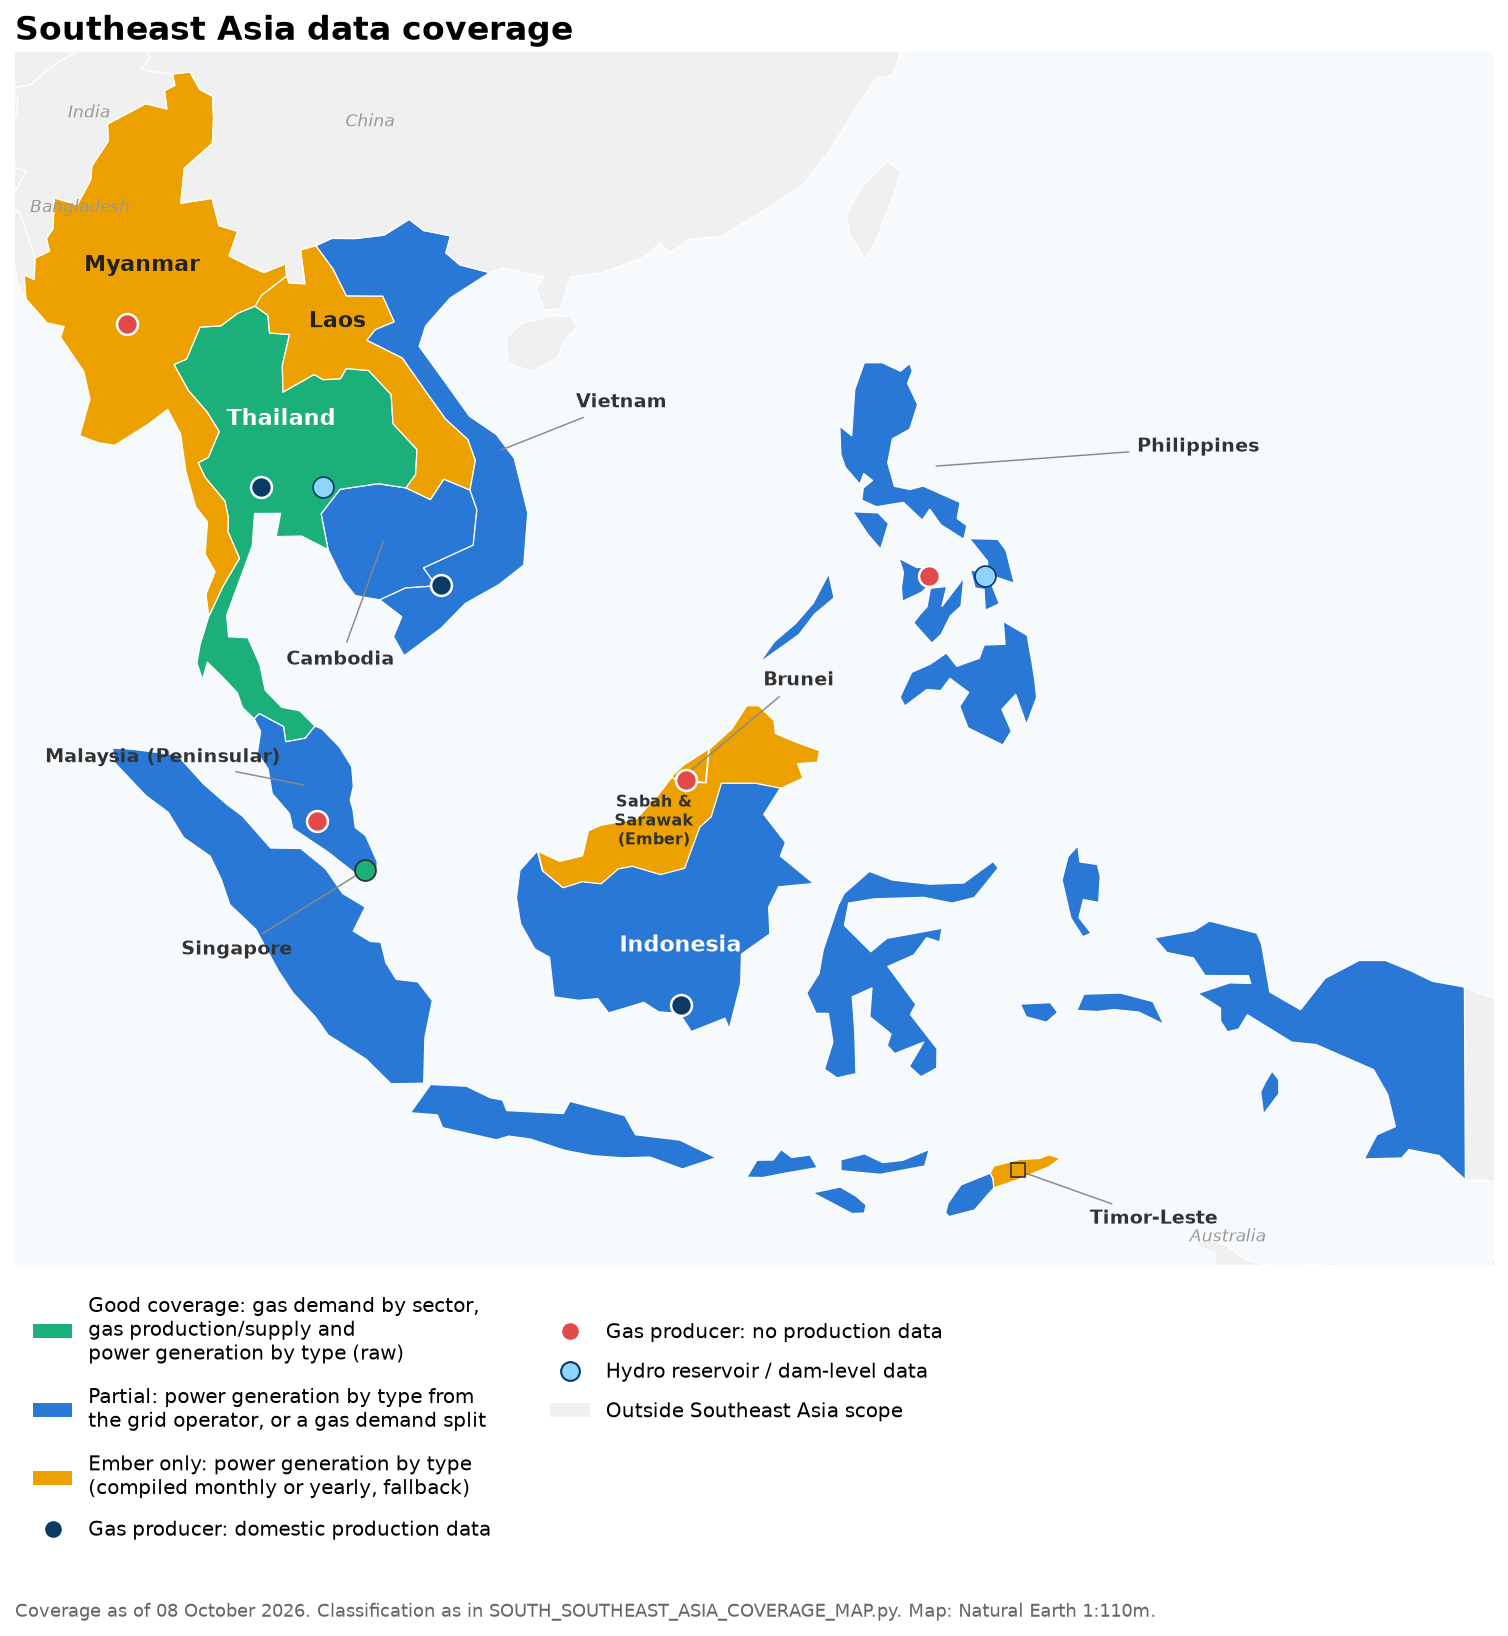
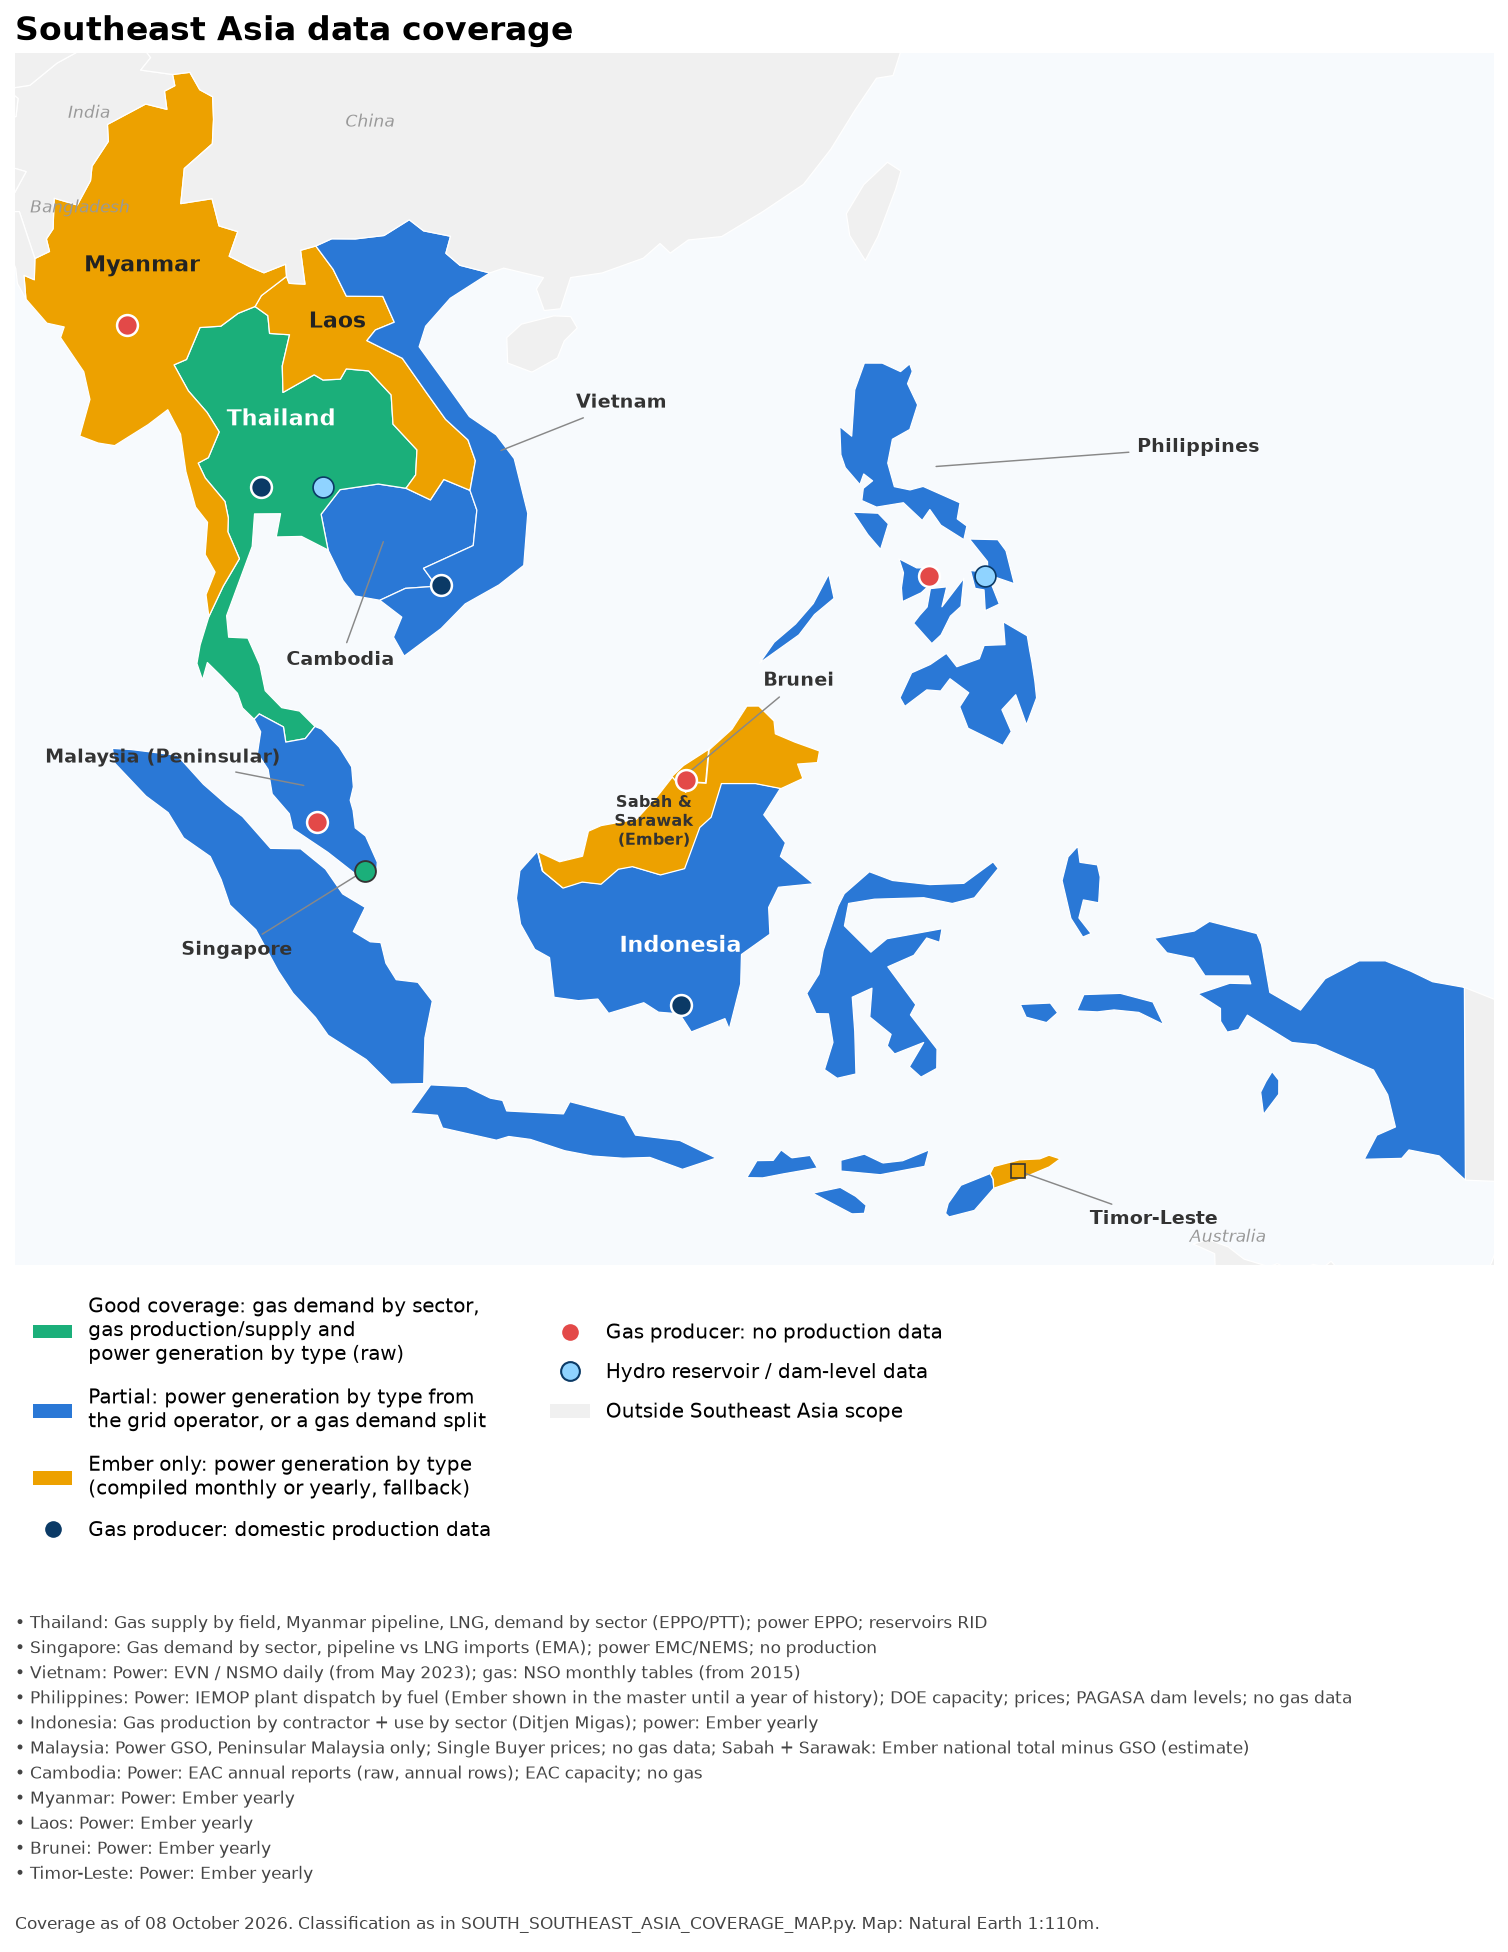
Southeast Asia coverage map: notes bullets per country under the map
Claude-Session: https://claude.ai/code/session_017JZ6NtiEGTPcCx8fG8R1Sb

diff --git a/asia/SOUTHEAST_ASIA_COVERAGE_MAP.py b/asia/SOUTHEAST_ASIA_COVERAGE_MAP.py
@@ -122,8 +122,20 @@ def main():
     ax.legend(handles=handles, loc="upper left", frameon=False, fontsize=9.5, bbox_to_anchor=(0.0, -0.01), ncol=2,
               labelspacing=1.0, columnspacing=3.0)
     ax.set_title("Southeast Asia data coverage", fontsize=16, fontweight="bold", loc="left")
-    ax.text(0.0, -0.29, f"Coverage as of {datetime.date.today():%d %B %Y}. Classification as in "
-             "SOUTH_SOUTHEAST_ASIA_COVERAGE_MAP.py. Map: Natural Earth 1:110m.", fontsize=8.5, color="#666666", transform=ax.transAxes)
+    import textwrap
+    order = {"green": 0, "blue": 1, "amber": 2}
+    lines = []
+    for name in sorted((n for n in SE_ASIA if n in cov), key=lambda n: (order[cov[n][0]], SE_ASIA.index(n))):
+        what = cov[name][1]
+        if name == "Malaysia":
+            what += "; Sabah + Sarawak: Ember national total minus GSO (estimate)"
+        wrapped = textwrap.wrap(f"{name}: {what}", 165, subsequent_indent="    ")
+        lines.append("\u2022 " + wrapped[0])
+        lines += ["   " + w for w in wrapped[1:]]
+    lines += ["", f"Coverage as of {datetime.date.today():%d %B %Y}. Classification as in SOUTH_SOUTHEAST_ASIA_COVERAGE_MAP.py. "
+                  "Map: Natural Earth 1:110m."]
+    ax.text(0.0, -0.285, "\n".join(lines), fontsize=8.3, color="#444444", transform=ax.transAxes, va="top",
+            linespacing=1.45)
 
     os.makedirs(os.path.dirname(os.path.abspath(args.out)), exist_ok=True)
     fig.savefig(args.out, bbox_inches="tight", facecolor="white")
